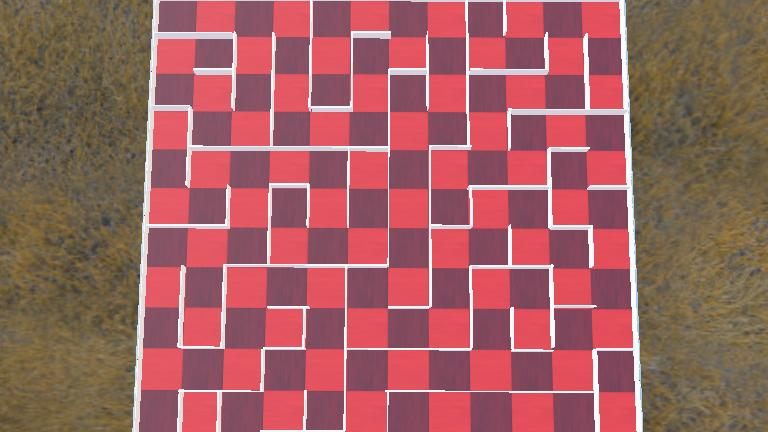
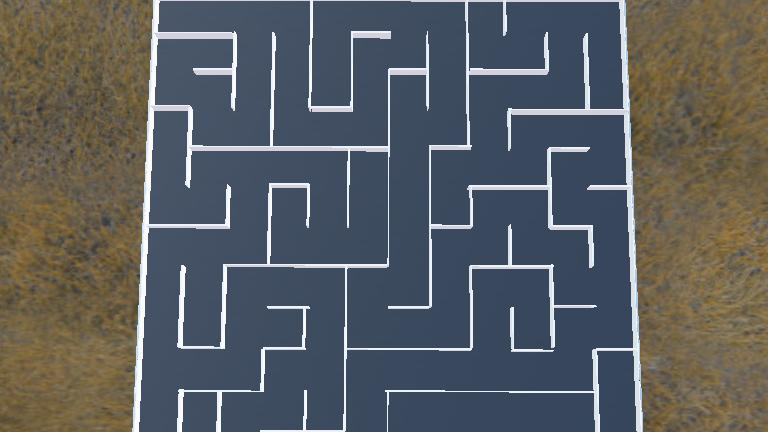
added visual path representation of the robot

diff --git a/controllers/wall_following_robot/wall_following_robot.py b/controllers/wall_following_robot/wall_following_robot.py
@@ -1,7 +1,7 @@
 # x = red
 # y = green
 # z = blue
-from controller import Robot, Supervisor
+from controller import Supervisor
 import math
 
 # Constants
@@ -52,6 +52,20 @@ for i in range(12):
         pos = cell_to_world(i, j)
         print(f"cell ({i},{j}) = {pos} -> cell: {world_to_cell(pos[0], pos[1])}")
         
+# --- Add marker dropping logic ---
+def drop_marker(supervisor, position, radius=0.01, color=[1,0,0]):
+    """Drop a small colored sphere at the given position using Supervisor API."""
+    children_field = supervisor.getRoot().getField('children')
+    proto_str = (
+        f'Transform {{ translation {position[0]} {position[1]} {position[2]} '
+        'children [ '
+        'Shape { '
+        'appearance Appearance { material Material { diffuseColor ' + f'{color[0]} {color[1]} {color[2]}' + ' } } '
+        f'geometry Sphere {{ radius {radius} }} '
+        '} ] }'
+    )
+    children_field.importMFNodeFromString(-1, proto_str)
+
 def run_wall_follower(robot):
     timestep = int(robot.getBasicTimeStep())
 
@@ -83,10 +97,15 @@ def run_wall_follower(robot):
     print(f"Start position (odometry): x={START_POS[0]:.3f}, y={START_POS[1]:.3f}")
     print(f"End position: x={END_POS[0]:.3f}, y={END_POS[1]:.3f}")
 
+    step_count = 0  # Add step counter for marker dropping
     while robot.step(timestep) != -1:
         # Get ground truth position from GPS if available
         gt_translation = gps.getValues()
         x, y, z = gt_translation[0], gt_translation[1], gt_translation[2]
+        # Drop a marker every 10 steps
+        if step_count % 10 == 0:
+            drop_marker(robot, (x, y, z+0.01))  # Slightly above ground
+        step_count += 1
         print(f"Ground truth (GPS): x={x:.3f}, y={y:.3f}, z={z:.3f}")
 
         # Read proximity sensors
@@ -123,5 +142,5 @@ def run_wall_follower(robot):
         right_motor.setVelocity(right_speed)
 
 if __name__ == "__main__":
-    robot = Robot()
+    robot = Supervisor()
     run_wall_follower(robot)
